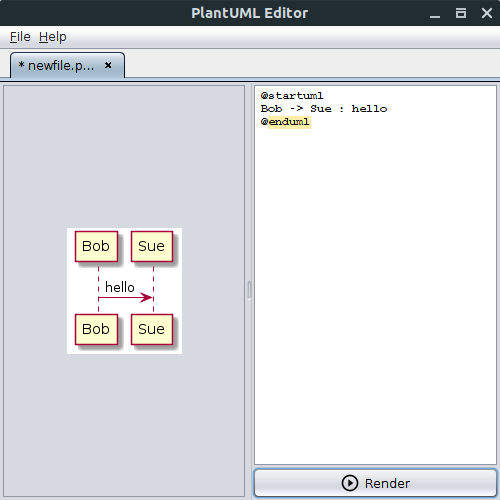
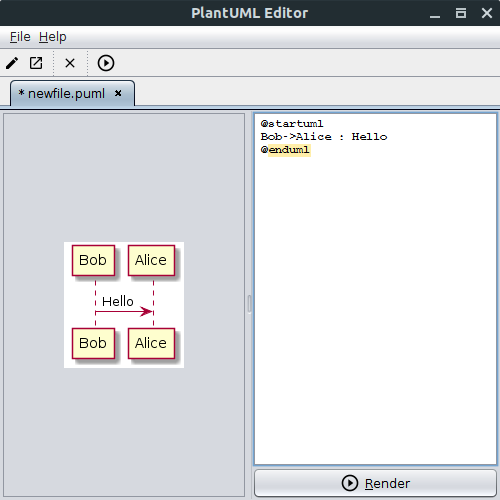
added toolbar and updated screenshot

Changed region(s): [[0.0, 0.09, 1.0, 1.0], [0.12, 0.45, 0.39, 0.75], [0.69, 0.27, 0.78, 0.3]]

diff --git a/src/main/java/edu/montana/gsoc/msusel/plantuml/components/PlantUMLTab.java b/src/main/java/edu/montana/gsoc/msusel/plantuml/components/PlantUMLTab.java
@@ -40,10 +40,7 @@ import javax.swing.event.DocumentEvent;
 import javax.swing.event.DocumentListener;
 import javax.swing.filechooser.FileNameExtensionFilter;
 import java.awt.*;
-import java.awt.event.ActionEvent;
-import java.awt.event.ActionListener;
-import java.awt.event.ComponentAdapter;
-import java.awt.event.ComponentEvent;
+import java.awt.event.*;
 import java.awt.image.BufferedImage;
 import java.io.ByteArrayInputStream;
 import java.io.ByteArrayOutputStream;
@@ -122,6 +119,14 @@ public class PlantUMLTab extends JPanel implements DocumentListener {
 
         jepPlantUML.setFont(new Font("Courier", Font.PLAIN, 12));
         jepPlantUML.setText(text);
+        jepPlantUML.addKeyListener(new KeyAdapter() {
+            @Override
+            public void keyReleased(KeyEvent e) {
+                if (e.getKeyCode() == KeyEvent.VK_F5) {
+                    updateUML();
+                }
+            }
+        });
 
         JScrollPane jsp = new JScrollPane();
         jsp.setViewportView(jepPlantUML);
@@ -138,6 +143,8 @@ public class PlantUMLTab extends JPanel implements DocumentListener {
         pnlText.add(jsp, BorderLayout.CENTER);
 
         JButton btnRender = new JButton("Render");
+        btnRender.setMnemonic('R');
+        btnRender.setRolloverIcon(FontIcon.of(Material.PLAY_CIRCLE_OUTLINE, 20, Color.RED));
         btnRender.setIcon(FontIcon.of(Material.PLAY_CIRCLE_OUTLINE, 20, Color.BLACK));
         btnRender.setIconTextGap(5);
         btnRender.setHorizontalTextPosition(SwingConstants.RIGHT);
@@ -167,7 +174,10 @@ public class PlantUMLTab extends JPanel implements DocumentListener {
         });
     }
 
-    private void updateUML() {
+    /**
+     * Updates the uml in the viewer
+     */
+    public void updateUML() {
         try {
             ByteArrayOutputStream png = new ByteArrayOutputStream();
             String source = jepPlantUML.getText();

diff --git a/src/main/java/edu/montana/gsoc/msusel/plantuml/PlantUMLEditor.java b/src/main/java/edu/montana/gsoc/msusel/plantuml/PlantUMLEditor.java
@@ -28,6 +28,7 @@ import com.google.common.collect.Lists;
 import edu.montana.gsoc.msusel.plantuml.action.export.*;
 import edu.montana.gsoc.msusel.plantuml.action.file.*;
 import edu.montana.gsoc.msusel.plantuml.action.help.AboutAction;
+import edu.montana.gsoc.msusel.plantuml.action.toolbar.RenderAction;
 import edu.montana.gsoc.msusel.plantuml.components.AboutDialog;
 import edu.montana.gsoc.msusel.plantuml.components.ButtonTabComponent;
 import edu.montana.gsoc.msusel.plantuml.components.PlantUMLTab;
@@ -107,6 +108,7 @@ public class PlantUMLEditor extends JFrame {
     private void initComponents() {
         Container c = this.getContentPane();
         c.setLayout(new BorderLayout());
+        c.add(initToolBar(), BorderLayout.PAGE_START);
         c.add(tabs = new JTabbedPane(), BorderLayout.CENTER);
         tabs.setTabLayoutPolicy(JTabbedPane.WRAP_TAB_LAYOUT);
 
@@ -129,6 +131,19 @@ public class PlantUMLEditor extends JFrame {
         });
 
         aboutDialog = new AboutDialog(this);
+    }
+
+    private JToolBar initToolBar() {
+        JToolBar jtb = new JToolBar("PlantUML Edit");
+        jtb.setFloatable(false);
+        jtb.setRollover(true);
+        jtb.add(new NewAction(this));
+        jtb.add(new OpenAction(this));
+        jtb.addSeparator();
+        jtb.add(new CloseCurrentTabAction(this));
+        jtb.addSeparator();
+        jtb.add(new RenderAction(this));
+        return jtb;
     }
 
     /**
@@ -364,6 +379,12 @@ public class PlantUMLEditor extends JFrame {
      */
     public int getCurrentTabIndex() {
         return tabs.getSelectedIndex();
+    }
+
+    public void renderCurrentTab() {
+        PlantUMLTab tab = getCurrentTab();
+        if (tab != null)
+            tab.updateUML();
     }
 
     /**

diff --git a/src/main/java/edu/montana/gsoc/msusel/plantuml/action/toolbar/RenderAction.java b/src/main/java/edu/montana/gsoc/msusel/plantuml/action/toolbar/RenderAction.java
@@ -1,0 +1,39 @@
+package edu.montana.gsoc.msusel.plantuml.action.toolbar;
+
+import edu.montana.gsoc.msusel.plantuml.PlantUMLEditor;
+import edu.montana.gsoc.msusel.plantuml.action.AbstractFileAction;
+import org.kordamp.ikonli.material.Material;
+import org.kordamp.ikonli.swing.FontIcon;
+
+import javax.swing.*;
+import java.awt.*;
+import java.awt.event.ActionEvent;
+import java.awt.event.KeyEvent;
+
+/**
+ * Renders the UML for the currently selected tab
+ *
+ * @author Isaac Griffith
+ * @version 1.1.1
+ */
+public class RenderAction extends AbstractFileAction {
+
+    /**
+     * Construct a new NewAction attached to the given PlantUMLEditor
+     *
+     * @param owner Owner of this Action
+     */
+    public RenderAction(PlantUMLEditor owner) {
+        super(owner,
+                "Render",
+                "Renders UML in selected tab",
+                FontIcon.of(Material.PLAY_CIRCLE_OUTLINE, 20, Color.BLACK),
+                KeyEvent.VK_R,
+                KeyStroke.getKeyStroke(KeyEvent.VK_F5, 0, true));
+    }
+
+    @Override
+    public void actionPerformed(ActionEvent e) {
+        owner.renderCurrentTab();
+    }
+}
